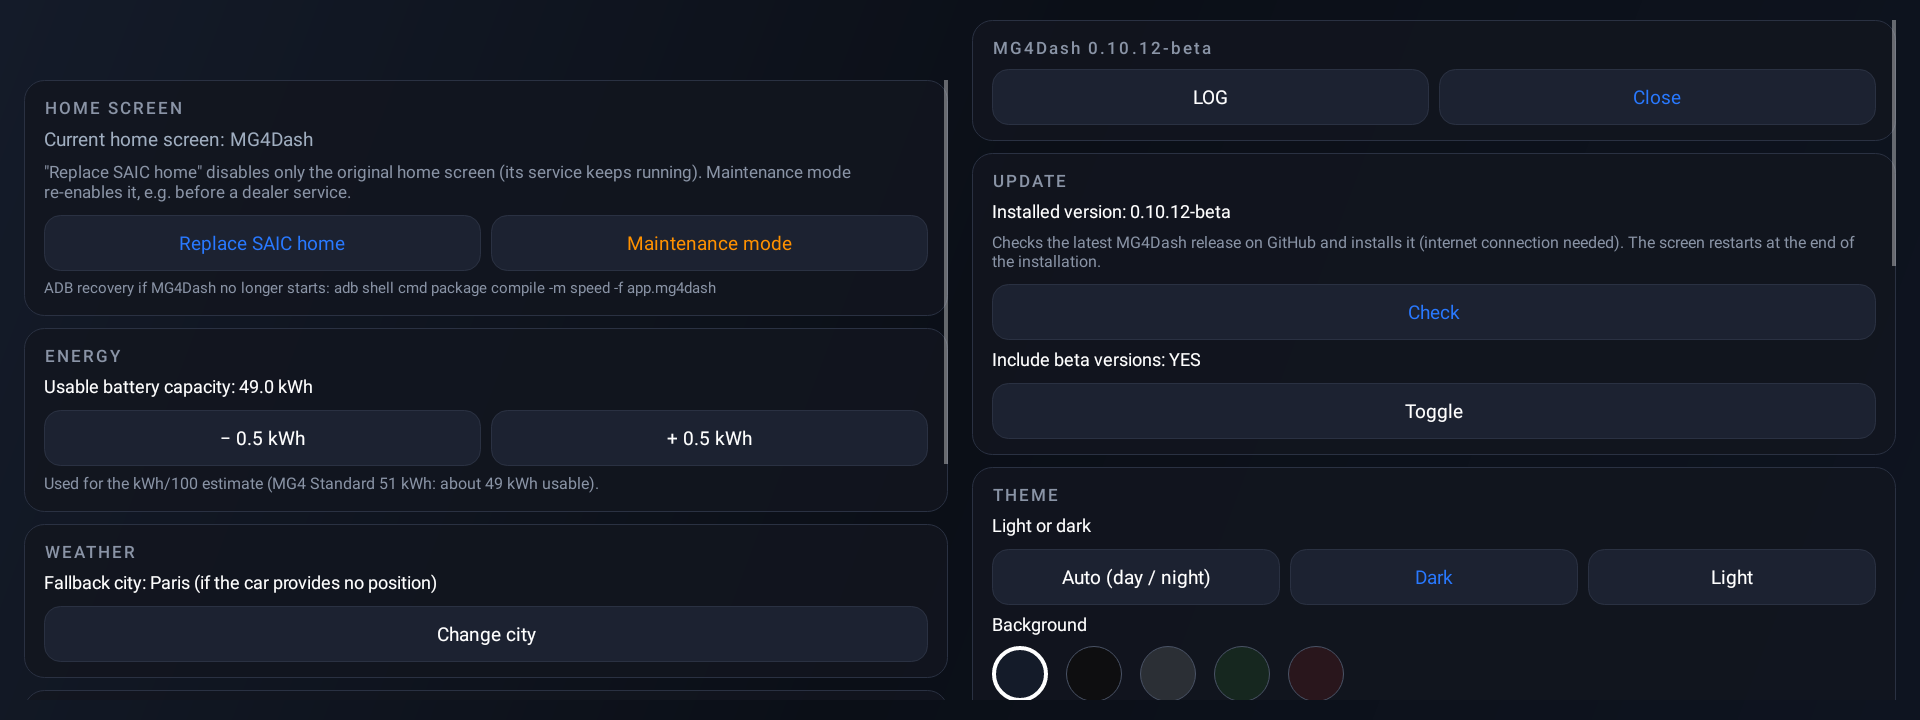
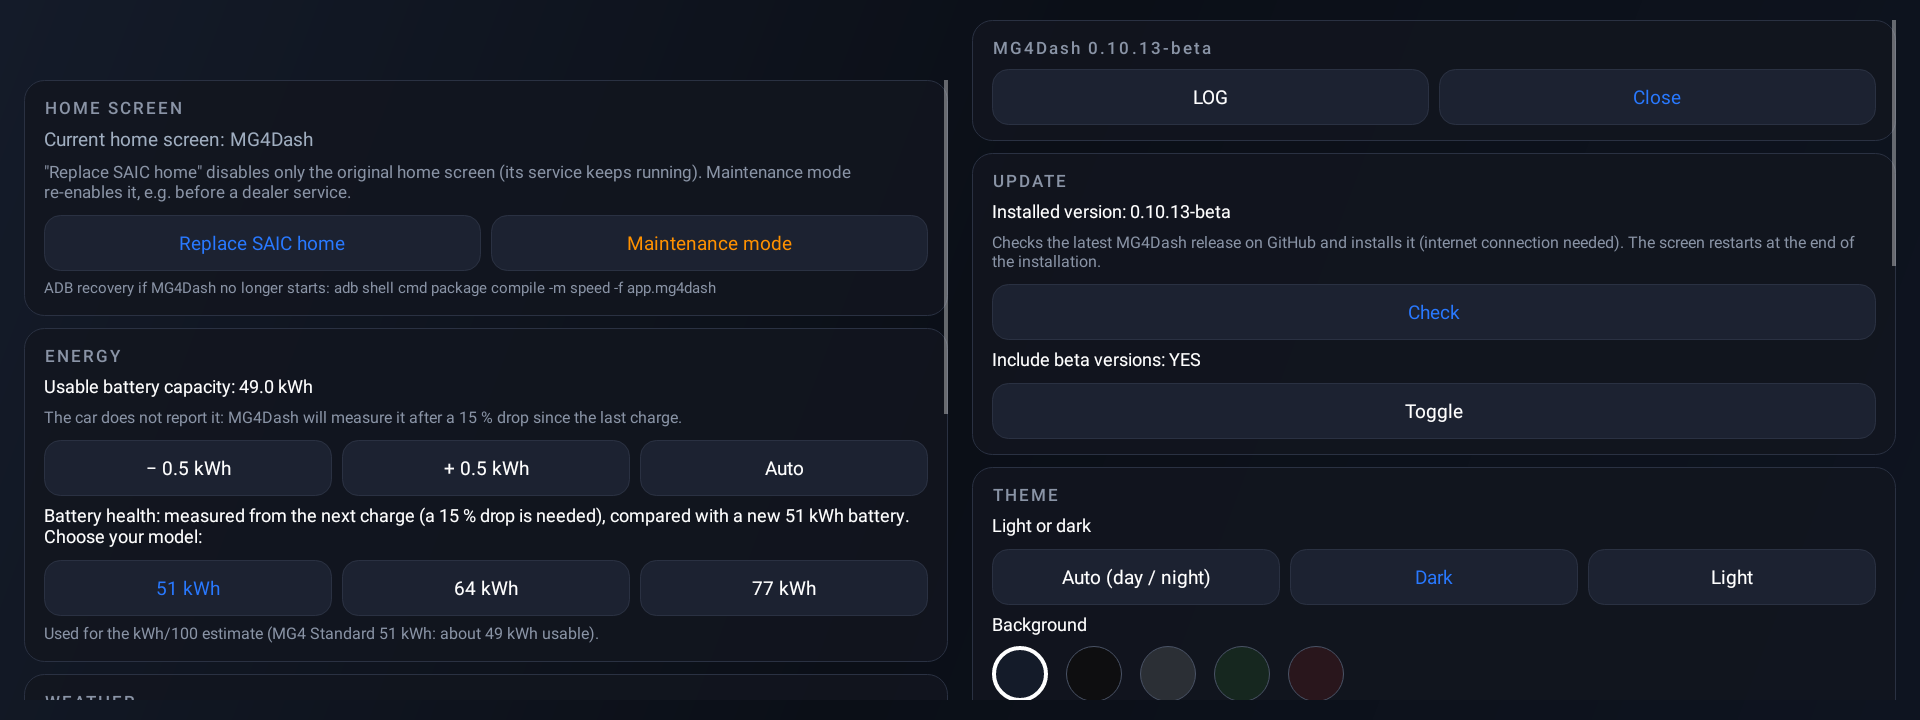
README: battery capacity and estimated battery health

diff --git a/README.md b/README.md
@@ -69,9 +69,12 @@ Drive mode, KERS, driver assistance and vehicle status, read only, with a shortc
 ![Phone](docs/screenshots/phone.png?v=12)
 Recent calls, contacts with a search field and a keypad, from the phone connected over Bluetooth. Calls go through the hands-free (HFP) account, like the stock phone app, whose in-call screen is kept.
 
+### Battery health (estimated)
+Between two charges, MG4Dash measures the energy actually taken from the battery (regeneration deducted) and divides it by the drop in battery %: from a 15 % drop, that gives the real usable capacity. Each charge-to-charge period is kept as a dated measurement; the average, weighted by the % drop, is shown over the last 30 days and since the first measurement, against the usable capacity of a new battery of your model (51, 64 or 77 kWh, chosen in Settings › Energy). The car's integer % and charging losses make it an estimate: it settles after a few charges.
+
 ### Launcher settings
 ![Settings](docs/screenshots/settings.png?v=12)
-Home screen (replace the SAIC home / maintenance mode), battery capacity, weather city, startup, full screen, energy data recorder, Home Assistant and a built-in log.
+Home screen (replace the SAIC home / maintenance mode), battery capacity (read from the car or measured by MG4Dash) and estimated battery health, weather city, startup, full screen, energy data recorder, Home Assistant and a built-in log.
 
 ## Compatibility (beta)
 
